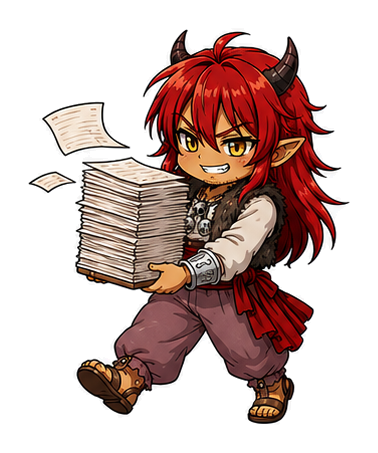
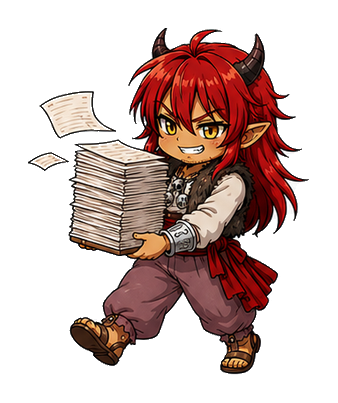
Refine Yushka chibi transparency

Changed region(s): [[0.0592, 0.0596, 0.9172, 0.9529]]

diff --git a/service-worker.js b/service-worker.js
@@ -1,4 +1,4 @@
-const CACHE_NAME = 'patient-triage-pwa-v35';
+const CACHE_NAME = 'patient-triage-pwa-v36';
 const APP_SHELL = [
   './',
   './index.html',
